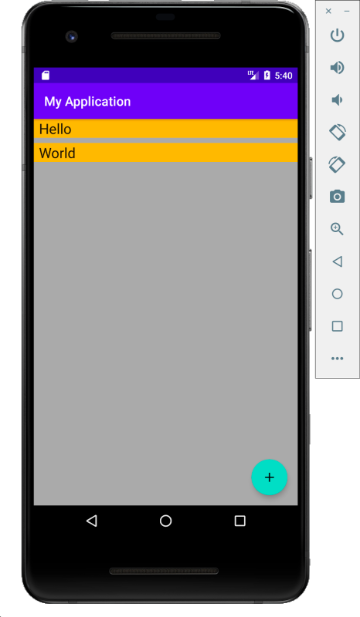
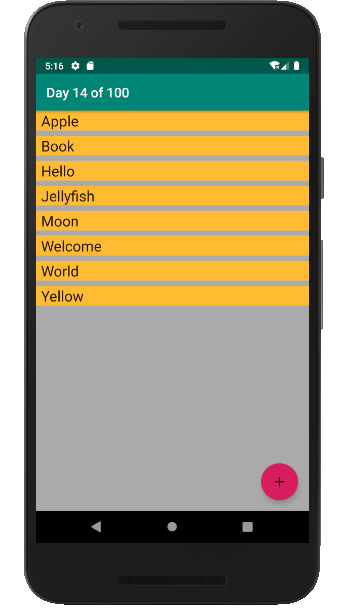
Feat: Wire all Android Architecture components(Models, Views, ViewModels)

diff --git a/Day-14-of-100/app/src/main/java/com/example/day14of100/MainActivity.java b/Day-14-of-100/app/src/main/java/com/example/day14of100/MainActivity.java
@@ -1,11 +1,24 @@
 package com.example.day14of100;
 
-import android.support.v7.app.AppCompatActivity;
+import android.arch.lifecycle.Observer;
+import android.arch.lifecycle.ViewModelProviders;
+import android.content.Intent;
 import android.os.Bundle;
+import android.support.annotation.Nullable;
+import android.support.design.widget.FloatingActionButton;
+import android.support.v7.app.AppCompatActivity;
 import android.support.v7.widget.LinearLayoutManager;
 import android.support.v7.widget.RecyclerView;
+import android.view.View;
+import android.widget.Toast;
+
+import java.util.List;
 
 public class MainActivity extends AppCompatActivity {
+
+    public static final int NEW_WORD_ACTIVITY_REQUEST_CODE = 1;
+
+    private WordViewModel mWordViewModel;
 
     @Override
     protected void onCreate(Bundle savedInstanceState) {
@@ -13,8 +26,40 @@ public class MainActivity extends AppCompatActivity {
         setContentView(R.layout.activity_main);
 
         RecyclerView recyclerView = findViewById(R.id.recyclerview);
-        WordListAdapter adapter = new WordListAdapter(this);
+        final WordListAdapter adapter = new WordListAdapter(this);
         recyclerView.setAdapter(adapter);
         recyclerView.setLayoutManager(new LinearLayoutManager(this));
+
+        mWordViewModel = ViewModelProviders.of(this).get(WordViewModel.class);
+        mWordViewModel.getAllWords().observe(this, new Observer<List<Word>>() {
+            @Override
+            public void onChanged(@Nullable List<Word> words) {
+                adapter.setWords(words);
+            }
+        });
+
+        FloatingActionButton fab = findViewById(R.id.fab);
+        fab.setOnClickListener(new View.OnClickListener() {
+            @Override
+            public void onClick(View v) {
+                Intent intent = new Intent(MainActivity.this, NewWordActivity.class);
+                startActivityForResult(intent, NEW_WORD_ACTIVITY_REQUEST_CODE);
+            }
+        });
+    }
+
+    @Override
+    protected void onActivityResult(int requestCode, int resultCode, @Nullable Intent data) {
+        super.onActivityResult(requestCode, resultCode, data);
+
+        if (requestCode == NEW_WORD_ACTIVITY_REQUEST_CODE && resultCode == RESULT_OK) {
+            Word word = new Word(data.getStringExtra(NewWordActivity.EXTRA_REPLY));
+            mWordViewModel.insert(word);
+        } else {
+            Toast.makeText(
+                    getApplicationContext(),
+                    R.string.empty_not_saved,
+                    Toast.LENGTH_LONG).show();
+        }
     }
 }

diff --git a/Day-14-of-100/app/src/main/java/com/example/day14of100/NewWordActivity.java b/Day-14-of-100/app/src/main/java/com/example/day14of100/NewWordActivity.java
@@ -1,0 +1,41 @@
+package com.example.day14of100;
+
+import android.content.Intent;
+import android.os.Bundle;
+import android.support.v7.app.AppCompatActivity;
+import android.text.TextUtils;
+import android.view.View;
+import android.widget.Button;
+import android.widget.EditText;
+
+public class NewWordActivity extends AppCompatActivity {
+
+    public static final String EXTRA_REPLY = "com.example.day14of100.REPLY";
+
+    private EditText mEditWordView;
+
+    @Override
+    protected void onCreate(Bundle savedInstanceState) {
+        super.onCreate(savedInstanceState);
+        setContentView(R.layout.activity_new_word);
+
+        mEditWordView = findViewById(R.id.edit_word);
+
+        Button button = findViewById(R.id.button_save);
+
+        button.setOnClickListener(new View.OnClickListener() {
+            @Override
+            public void onClick(View v) {
+                Intent replyIntent = new Intent();
+                if (TextUtils.isEmpty(mEditWordView.getText())) {
+                    setResult(RESULT_CANCELED, replyIntent);
+                } else {
+                    String word = mEditWordView.getText().toString();
+                    replyIntent.putExtra(EXTRA_REPLY, word);
+                    setResult(RESULT_OK, replyIntent);
+                }
+                finish();
+            }
+        });
+    }
+}
